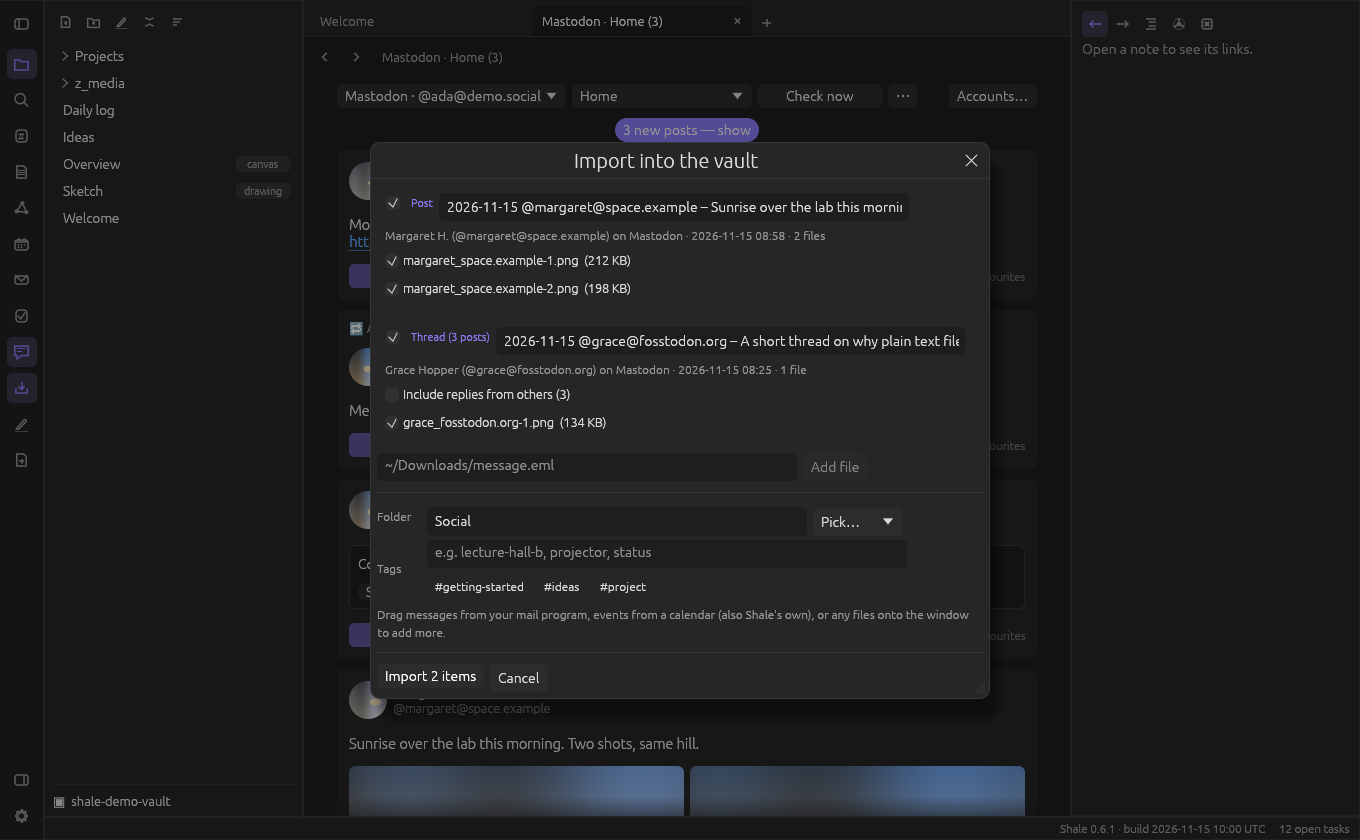
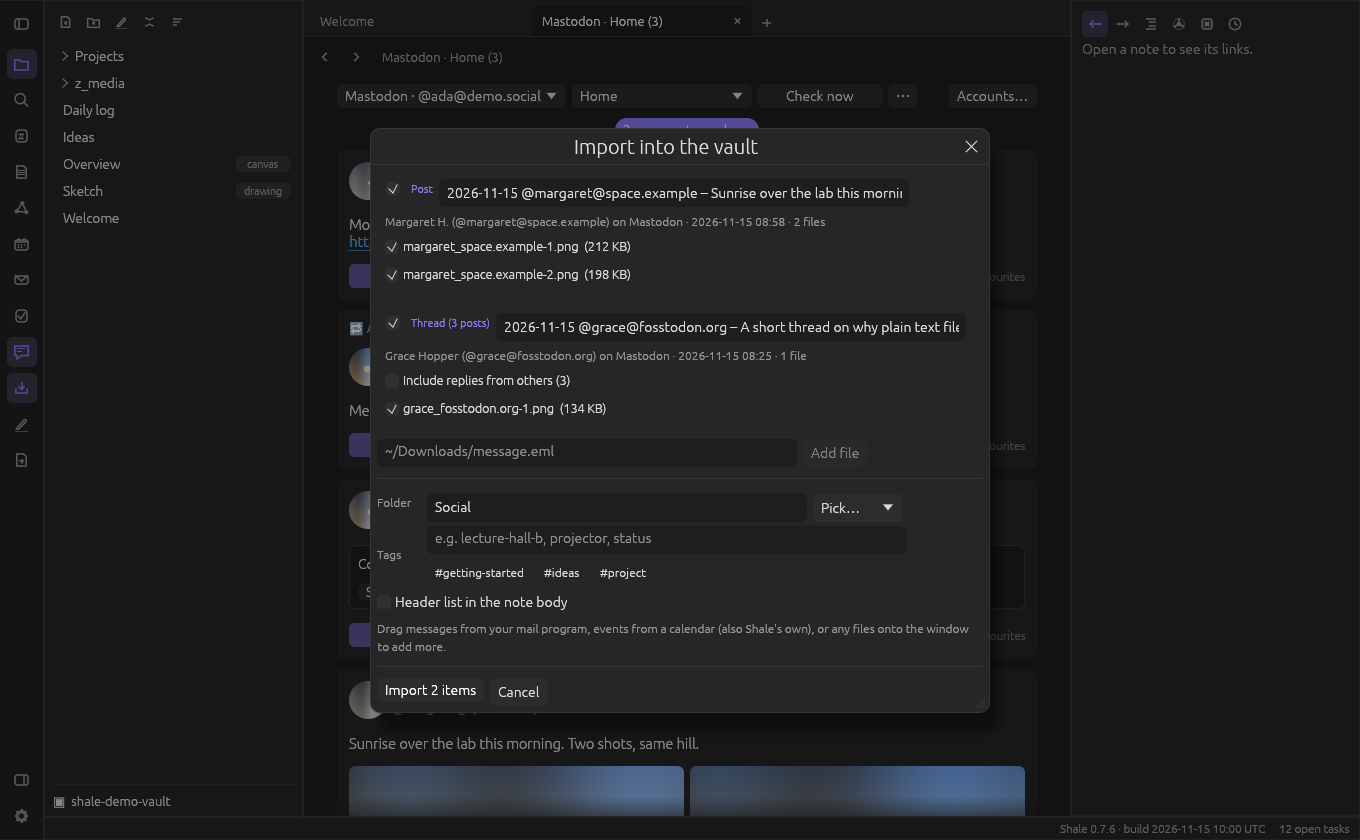
Hold the opened post still in the thread view and refresh the Feeds screenshots
The thread view now uses the view-still Anchor of the feed (SOC-028) for the opened post, so late-loading pictures or ancestors above it do not push it down until the user scrolls. New screenshot recipe social-thread (demo conversation) and regenerated social-feed and social-import; the demo source answers conversations for the demo thread and its replies.

Refs #560

diff --git a/src/social/thread_ui.rs b/src/social/thread_ui.rs
@@ -3,7 +3,7 @@
 //! with the same card as the feed (`feed_ui::post_card`). It is shown instead of the feed when the
 //! tab's `FeedRef` names a post; the tab's history makes Back return to the feed.
 
-use super::feed_ui::{column, column_width, inset, list_card, open_web, show_viewer, spinner_button, Ask, Cx, Look, TabCtx};
+use super::feed_ui::{column, column_width, inset, keep_still, list_card, open_web, show_viewer, spinner_button, Anchor, Ask, Cx, Look, TabCtx};
 use super::images::ImageCache;
 use super::state::{post_key, SocialState};
 use super::thread::ThreadStatus;
@@ -17,9 +17,6 @@ pub const INDENT: f32 = 18.0;
 pub const MAX_LEVELS: usize = 6;
 /// The narrowest card a deep reply is left with.
 const MIN_CARD: f32 = 220.0;
-/// How many frames the view is moved to the opened post when the conversation arrives (the
-/// posts above it settle their heights in the first frames).
-const SETTLE_FRAMES: u8 = 3;
 
 /// One card of the view.
 struct Item {
@@ -53,7 +50,7 @@ pub fn show(ui: &mut Ui, st: &mut SocialState, entry: &SocialAccountEntry, tab: 
     let snapshot = st.threads.map.get(&key).map(|t| {
         let view = if let ThreadStatus::Ready(v) = &t.status { Some(v.clone()) } else { None };
         let error = if let ThreadStatus::Failed(e) = &t.status { Some(e.clone()) } else { None };
-        (t.post.clone(), view, error, t.scrolled)
+        (t.post.clone(), view, error)
     });
     // ---- the bar above the conversation
     ui.add_space(8.0);
@@ -73,7 +70,7 @@ pub fn show(ui: &mut Ui, st: &mut SocialState, entry: &SocialAccountEntry, tab: 
         asks.push(Ask::Back);
     }
     ui.add_space(6.0);
-    let Some((root, view, error, scrolled)) = snapshot else {
+    let Some((root, view, error)) = snapshot else {
         column(ui, width, |ui| {
             ui.label(RichText::new("This conversation is not available any more. Go back and open it again.").color(theme::palette().muted));
         });
@@ -84,7 +81,11 @@ pub fn show(ui: &mut Ui, st: &mut SocialState, entry: &SocialAccountEntry, tab: 
     let mut open_thread: Option<(Post, bool)> = None;
     let mut retry = false;
     let mut post_rects: Vec<(String, Rect)> = vec![];
-    let mut root_rect = None;
+    // the opened post is held at the top of the view while posts above it change in height (a
+    // picture arrives, the ancestors come in); when the user scrolls, the anchor moves with the view
+    let mut anchor = st.threads.anchors.remove(&tab.id).filter(|a| a.scope == key).unwrap_or_else(|| Anchor { scope: key.clone(), key: post_key(&root), ..Default::default() });
+    let applied = anchor.apply.take();
+    let mut content_top = 0.0;
     let out = {
         let SocialState { images, revealed, saving, rects, viewer, threads, .. } = st;
         let Some(images) = images.as_ref() else { return asks };
@@ -93,7 +94,12 @@ pub fn show(ui: &mut Ui, st: &mut SocialState, entry: &SocialAccountEntry, tab: 
         if heights.len() > 50_000 {
             heights.clear();
         }
-        egui::ScrollArea::vertical().id_salt(("social-thread", tab.id, &aid, &id)).auto_shrink([false, false]).show(ui, |ui| {
+        let mut area = egui::ScrollArea::vertical().id_salt(("social-thread", tab.id, &aid, &id)).auto_shrink([false, false]);
+        if let Some(off) = applied {
+            area = area.vertical_scroll_offset(off);
+        }
+        area.show(ui, |ui| {
+            content_top = ui.cursor().min.y;
             column(ui, width, |ui| {
                 ui.spacing_mut().item_spacing.y = 10.0;
                 let (near_from, near_to) = (ui.clip_rect().min.y - super::feed_ui::FAR, ui.clip_rect().max.y + super::feed_ui::FAR);
@@ -108,11 +114,7 @@ pub fn show(ui: &mut Ui, st: &mut SocialState, entry: &SocialAccountEntry, tab: 
                         open_thread = Some((item.post.clone(), new_tab));
                     }
                     if item.highlight {
-                        root_rect = Some(card.rect);
                         cx.rects.push(("highlight".into(), card.rect));
-                        if view.is_some() && scrolled < SETTLE_FRAMES && i > 0 {
-                            ui.scroll_to_rect(card.rect, Some(egui::Align::TOP));
-                        }
                     }
                     post_rects.push((post_key(&item.post), card.rect));
                 }
@@ -151,9 +153,8 @@ pub fn show(ui: &mut Ui, st: &mut SocialState, entry: &SocialAccountEntry, tab: 
     };
     st.post_rects = post_rects;
     st.list_rect = out.inner_rect;
-    if let (Some(_), Some(t)) = (root_rect.filter(|_| view.is_some()), st.threads.map.get_mut(&key)) {
-        t.scrolled = t.scrolled.saturating_add(1);
-    }
+    keep_still(&ctx, &mut anchor, &st.post_rects, &out, content_top, applied);
+    st.threads.anchors.insert(tab.id, anchor);
     if retry {
         st.threads.retry(&aid, &id);
     }

diff --git a/src/social/feed_ui.rs b/src/social/feed_ui.rs
@@ -564,6 +564,36 @@ pub(super) fn list_card(ui: &mut Ui, cx: &mut Cx, heights: &mut HashMap<(String,
     out
 }
 
+/// Keep the view still (SOC-028): when the posts above the anchor's post changed in height, the
+/// scroll offset is put back so that it stays where it was; when the user scrolled, the anchor
+/// moves with the view. `content_top` is where the list's content started this frame, `applied`
+/// the offset that was set for this frame.
+pub(super) fn keep_still<R>(ctx: &egui::Context, anchor: &mut Anchor, post_rects: &[(String, Rect)], out: &egui::containers::scroll_area::ScrollAreaOutput<R>, content_top: f32, applied: Option<f32>) {
+    let top = out.inner_rect.min.y;
+    let offset_used = top - content_top;
+    // what the user scrolled during this frame (it applies to the next one)
+    let user = out.state.clamped_offset().y - offset_used;
+    if let Some((_, r)) = post_rects.iter().find(|(k, _)| *k == anchor.key) {
+        let dy_now = r.min.y - top;
+        if applied.is_none() && (dy_now - anchor.dy).abs() > 0.5 {
+            // posts above it changed in height: put the view back (in a second pass of this frame
+            // when egui allows it, else in the next frame)
+            anchor.apply = Some(offset_used + dy_now - anchor.dy);
+            ctx.request_discard("keeping the view still");
+            ctx.request_repaint();
+        }
+    }
+    if anchor.apply.is_none() {
+        match post_rects.iter().find(|(_, r)| r.max.y > top + 0.5) {
+            Some((k, r)) => {
+                anchor.key = k.clone();
+                anchor.dy = r.min.y - top - user;
+            }
+            None => anchor.key.clear(),
+        }
+    }
+}
+
 /// The picture viewer, when one is open over this tab (SOC-044).
 pub(super) fn show_viewer(ctx: &egui::Context, tab_rect: Rect, st: &mut SocialState, tab: &TabCtx) {
     if let (Some(v), Some(images)) = (st.viewer.as_mut().filter(|v| v.tab == tab.id), st.images.as_ref()) {
@@ -860,30 +890,7 @@ pub fn show(ui: &mut Ui, st: &mut SocialState, accounts: &[SocialAccountEntry], 
         // posts that arrived during the frame cannot exist (poll runs elsewhere); put the list back
         t.posts = posts;
     }
-    // ---- keep the view still
-    let top = out.inner_rect.min.y;
-    let offset_used = top - content_top;
-    // what the user scrolled during this frame (it applies to the next one)
-    let user = out.state.clamped_offset().y - offset_used;
-    if let Some((_, r)) = post_rects.iter().find(|(k, _)| *k == anchor.key) {
-        let dy_now = r.min.y - top;
-        if applied.is_none() && (dy_now - anchor.dy).abs() > 0.5 {
-            // posts above it changed in height: put the view back (in a second pass of this frame
-            // when egui allows it, else in the next frame)
-            anchor.apply = Some(offset_used + dy_now - anchor.dy);
-            ctx.request_discard("keeping the view still");
-            ctx.request_repaint();
-        }
-    }
-    if anchor.apply.is_none() {
-        match post_rects.iter().find(|(_, r)| r.max.y > top + 0.5) {
-            Some((k, r)) => {
-                anchor.key = k.clone();
-                anchor.dy = r.min.y - top - user;
-            }
-            None => anchor.key.clear(),
-        }
-    }
+    keep_still(&ctx, &mut anchor, &post_rects, &out, content_top, applied);
     st.anchors.insert(tab.id, anchor);
     st.post_rects = post_rects;
     st.list_rect = out.inner_rect;

diff --git a/src/social/thread_tests.rs b/src/social/thread_tests.rs
@@ -305,3 +305,39 @@ fn soc_047_replies_are_cards_like_the_feed_with_pictures_the_viewer_content_warn
     w.click("save:1");
     wait_for(&mut w, |w| matches!(w.app.modal, Some(crate::app::Modal::Import(_))));
 }
+
+// spec: SOC-046
+#[test]
+fn soc_046_the_opened_post_stays_put_when_the_height_of_a_post_above_it_changes_later_until_the_user_scrolls() {
+    let mut w = window("thread-still");
+    // the first post above it has a content warning: its height changes when it is opened (as a picture's does when it arrives)
+    let mut view = w.script.threads.lock().unwrap()["h0"][0].clone().unwrap();
+    view.ancestors[0].content_warning = Some("long".into());
+    view.ancestors[0].text_markdown = "a long text. ".repeat(80);
+    let up1 = post_key(&view.ancestors[0]);
+    w.script.threads.lock().unwrap().insert("h0".into(), vec![Ok(view)]);
+    w.click("replies:0");
+    wait_for(&mut w, ready);
+    w.frames(6);
+    let y0 = rect_of(&w, "h0").min.y;
+    assert!((y0 - w.app.social.list_rect.min.y).abs() < 8.0, "the opened post is at the top");
+    for open in [true, false, true] {
+        if open {
+            w.app.social.revealed.insert(up1.clone());
+        } else {
+            w.app.social.revealed.clear();
+        }
+        for i in 0..5 {
+            w.frames(1);
+            assert!((rect_of(&w, "h0").min.y - y0).abs() < 1.0, "open={open} frame {i}: {} vs {y0}", rect_of(&w, "h0").min.y);
+        }
+    }
+    // once the user scrolls, the view holds the post at the top of the window instead
+    w.scroll(300.0);
+    let top = w.app.social.post_rects.iter().find(|(_, r)| r.max.y > w.app.social.list_rect.min.y + 1.0).unwrap().clone();
+    assert!(rect_of(&w, "h0").min.y < y0 - 100.0);
+    w.app.social.revealed.clear();
+    w.frames(5);
+    let again = w.app.social.post_rects.iter().find(|(k, _)| *k == top.0).unwrap().1;
+    assert!((again.min.y - top.1.min.y).abs() < 1.0, "{} vs {}", again.min.y, top.1.min.y);
+}

diff --git a/src/social/demo.rs b/src/social/demo.rs
@@ -148,16 +148,22 @@ impl super::state::Source for DemoSource {
         posts().into_iter().chain(thread()).chain(new_posts()).find(|p| p.id == id).ok_or_else(|| "no such post".to_string())
     }
     fn thread(&self, post: &Post) -> Result<ThreadView, String> {
-        let all = thread();
-        match all.iter().position(|p| p.id == post.id) {
-            // the posts of the demo thread, and the replies of other people to it
-            Some(at) => {
-                let mut below: Vec<Post> = all[at + 1..].to_vec();
-                below.extend(replies().into_iter().map(|r| r.post));
-                Ok(super::thread_view_of(post, all[..at].to_vec(), &below))
-            }
-            None => Ok(super::thread_view_of(post, vec![], &[])),
+        // the demo thread and the replies to it are one conversation
+        let everything: Vec<Post> = thread().into_iter().chain(replies().into_iter().map(|r| r.post)).collect();
+        let mut ancestors = vec![];
+        let mut up = post.reply_to.clone();
+        while let Some(p) = up.and_then(|id| everything.iter().find(|p| p.id == id)) {
+            ancestors.push(p.clone());
+            up = p.reply_to.clone();
         }
+        ancestors.reverse();
+        let mut below: Vec<Post> = vec![];
+        let mut ids = vec![post.id.clone()];
+        while let Some(next) = everything.iter().find(|p| p.reply_to.as_ref().is_some_and(|r| ids.contains(r)) && !ids.contains(&p.id)) {
+            ids.push(next.id.clone());
+            below.push(next.clone());
+        }
+        Ok(super::thread_view_of(post, ancestors, &below))
     }
     fn newer(&self, _feed: &Feed, since: &Since) -> Result<Fresh, String> {
         Ok(Fresh { posts: new_posts().into_iter().filter(|p| !since.known.contains(&super::state::post_key(p))).collect(), ..Default::default() })

diff --git a/src/app.rs b/src/app.rs
@@ -768,12 +768,18 @@ impl ShaleApp {
                     app.open_data_usage();
                 }
                 Some("graph") => app.show_view(View::Graph, false),
-                // the feed view with made-up posts (no network); "social-import": and the dialog for saving some of them
-                Some(v @ ("social" | "social-import")) => {
+                // the feed view with made-up posts (no network); "social-import": and the dialog for saving some of them; "social-thread": the conversation of a post
+                Some(v @ ("social" | "social-import" | "social-thread")) => {
                     let demo = crate::social::demo::account();
                     app.cfg.social_accounts = vec![demo.clone()];
                     app.social.load_demo(&demo);
                     app.show_view(View::Social(None), false);
+                    if v == "social-thread" {
+                        // the conversation of the first reply to the demo thread (SOC-045)
+                        let post = crate::social::demo::replies().remove(0).post;
+                        app.social.threads.open(&demo.account.id, &post);
+                        app.show_view(View::Social(Some(crate::social::FeedRef { thread: Some(post.id), ..crate::social::FeedRef::new(demo.account.id.clone(), "home") })), false);
+                    }
                     if v == "social-import" {
                         let posts = crate::social::demo::posts();
                         let items = [3, 4].iter().map(|i| crate::import::social_item(crate::social::demo::saved(&posts[*i]), "Mastodon", false)).collect();

diff --git a/src/social/thread.rs b/src/social/thread.rs
@@ -18,9 +18,6 @@ pub struct ThreadEntry {
     /// the post that was opened, as the feed showed it (drawn while the rest comes)
     pub post: Post,
     pub status: ThreadStatus,
-    /// how many frames the view was moved to the opened post since the conversation arrived (the
-    /// ancestors above it push it down)
-    pub scrolled: u8,
 }
 
 /// The conversations opened in this run, by (account, post id). A step back and forth in a tab's
@@ -31,6 +28,9 @@ pub struct Threads {
     /// how high each post was drawn at a width (as `SocialState::card_heights`; separate because
     /// the opened post is drawn with a frame)
     pub heights: HashMap<(String, u32), (f32, bool)>,
+    /// where each tab's conversation is held still while posts above the opened post change in
+    /// height (SOC-046); a new conversation starts with the opened post at the top
+    pub anchors: HashMap<u64, super::feed_ui::Anchor>,
 }
 
 impl Threads {
@@ -40,7 +40,9 @@ impl Threads {
         if matches!(self.map.get(&key), Some(ThreadEntry { status: ThreadStatus::Loading | ThreadStatus::Wanted, .. })) {
             return;
         }
-        self.map.insert(key, ThreadEntry { post: Post { reposted_by: None, ..post.clone() }, status: ThreadStatus::Wanted, scrolled: 0 });
+        // a conversation opened again starts with the opened post at the top
+        self.anchors.retain(|_, a| a.scope != key);
+        self.map.insert(key, ThreadEntry { post: Post { reposted_by: None, ..post.clone() }, status: ThreadStatus::Wanted });
     }
 
     /// Ask again after an error.

diff --git a/src/script.rs b/src/script.rs
@@ -391,7 +391,7 @@ mod tests {
                 assert!(crate::parse_size(size).is_some(), "[{}] size {size}", r.name);
             }
             if let Some(view) = k("view") {
-                let known = ["tasks", "graph", "drawing", "reading", "calendar", "calendar-side", "mail", "keybindings", "data-usage", "social", "social-import", "search"];
+                let known = ["tasks", "graph", "drawing", "reading", "calendar", "calendar-side", "mail", "keybindings", "data-usage", "social", "social-import", "social-thread", "search"];
                 assert!(known.contains(&view) || ["open:", "read-only:", "convert:"].iter().any(|p| view.starts_with(p)), "[{}] view {view}", r.name);
             }
             if let Some(v) = k("vault") {

diff --git a/docs/spec/social.md b/docs/spec/social.md
@@ -28,7 +28,7 @@ small pretend servers driven through real `curl`; it has not been tried against 
 | SOC-013 | Pictures (avatars, previews) are fetched by 4 background workers into `~/.cache/shale/social/<hash>.<ext>`, once per address, without any login, and shown from the file; the window never waits for them. | IS NOW | `social/images.rs` | `images.rs::local_files_are_used_as_they_are_and_names_are_stable` |
 | SOC-044 | A click on a picture of a post opens it in a viewer over the Feeds tab (the tab's area, not the sidebar): the full size picture (`Media::url`, through the picture cache, SOC-013) fitted to the window, with a bar of Previous / Next, "N / M", zoom out / in, "100%" / "Fit" and Close, and below it the picture's description (alt text, scrolls when long; no line when there is none). A post with several pictures is stepped through with the buttons and the Left / Right keys (not past the ends; each picture starts fitted); `+` / `-` and the mouse wheel zoom, `0` toggles 100% and Fit, dragging pans a zoomed picture; Esc or Close closes it. While the file is on its way a spinner shows, when it cannot be fetched or read a message says so; the window never waits. Pictures behind a content warning (SOC-006) cannot be clicked until Show. A video or GIF preview is not opened here: it still opens at its web address (the media player plays files of the vault, not the posts' remote videos); "Open in browser" in the bar opens the picture's web address. | IS NOW | `social/viewer.rs`, `social/feed_ui.rs` (`thumb`), `social/state.rs` (`viewer`) | `feed_ui.rs::soc_044_a_click_opens_the_picture_big_and_the_pictures_of_the_post_can_be_stepped_through_and_closed`, `feed_ui.rs::soc_044_a_picture_on_its_way_shows_a_spinner_and_one_that_fails_an_error`, `feed_ui.rs::soc_044_pictures_behind_a_content_warning_cannot_be_opened_and_videos_do_not_open_the_viewer` |
 | SOC-045 | A click on the reply count of a post ("N replies") or on its **Show thread** button (offered for a post that has replies or replies to a post) opens its conversation in the same Feeds tab as a step in the tab's history (SOC-021): the tab's `FeedRef` then names the post (`thread`, in memory only: a saved tab holds the feed), and the tab is titled "<network> · Conversation". Shift+click and middle click open it in a new Feeds tab; the old tab stays on the feed. In the conversation the counts and buttons of the other posts open their conversation too, each one another step. The conversation is fetched again each time it is opened this way; Back and Forward show what was fetched. | IS NOW | `social/feed_ui.rs` (`post_card`, `Ask::Thread`), `app/social.rs` (`open_thread`), `social/mod.rs` (`FeedRef::thread`) | `thread_tests.rs::soc_045_the_reply_count_opens_the_conversation_with_the_posts_above_the_tree_below_and_the_opened_post_highlighted`, `thread_tests.rs::soc_045_the_show_thread_button_opens_it_too_and_shift_or_middle_click_open_it_in_a_new_tab`, `mod.rs::a_feed_ref_names_a_conversation_only_in_memory` |
-| SOC-046 | The conversation view shows the posts the opened post replies to (all authors, from the top of the conversation down), the opened post highlighted (its own fill and an accent frame; it has no reply count to click), and everything below it as a tree: depth first, oldest first among siblings (as `conversation`, SOC-019, but the author's own replies are in the tree too). Replies are moved in by 18 points for each level, up to 6 levels; deeper ones stay at the last indent (and a card is never narrower than 220 points). When the data arrives the view is moved so that the opened post is at the top. When the server's answer left replies out (a post counts more replies than the tree below it holds, or at most 300 replies are shown) a note says so with **Open in browser**; a post without replies says "No replies yet." | IS NOW | `social/thread_ui.rs`, `social/mod.rs` (`thread_view_of`), `social/mastodon.rs` (`thread_view`), `social/bluesky.rs` (`thread_view`) | `thread_tests.rs::soc_045_the_reply_count_opens_the_conversation_with_the_posts_above_the_tree_below_and_the_opened_post_highlighted`, `thread_tests.rs::soc_046_replies_the_server_left_out_say_so_with_open_in_browser`, `mod.rs::a_thread_view_is_the_tree_below_the_post_and_notices_replies_that_are_missing`, `mastodon.rs::the_conversation_of_a_post_from_a_context_fixture`, `mastodon.rs::the_conversation_of_a_post_is_asked_from_the_servers_context`, `bluesky.rs::the_conversation_of_a_post_from_a_thread_fixture`, `bluesky.rs::the_conversation_of_a_post_is_asked_with_get_post_thread` |
+| SOC-046 | The conversation view shows the posts the opened post replies to (all authors, from the top of the conversation down), the opened post highlighted (its own fill and an accent frame; it has no reply count to click), and everything below it as a tree: depth first, oldest first among siblings (as `conversation`, SOC-019, but the author's own replies are in the tree too). Replies are moved in by 18 points for each level, up to 6 levels; deeper ones stay at the last indent (and a card is never narrower than 220 points). The opened post is held at the top of the view with the `Anchor` of SOC-028 while posts above it change in height (the ancestors come in, a picture arrives) until the user scrolls; then the post at the top of the window is held instead. When the server's answer left replies out (a post counts more replies than the tree below it holds, or at most 300 replies are shown) a note says so with **Open in browser**; a post without replies says "No replies yet." | IS NOW | `social/thread_ui.rs`, `social/mod.rs` (`thread_view_of`), `social/mastodon.rs` (`thread_view`), `social/bluesky.rs` (`thread_view`) | `thread_tests.rs::soc_045_the_reply_count_opens_the_conversation_with_the_posts_above_the_tree_below_and_the_opened_post_highlighted`, `thread_tests.rs::soc_046_replies_the_server_left_out_say_so_with_open_in_browser`, `thread_tests.rs::soc_046_the_opened_post_stays_put_when_the_height_of_a_post_above_it_changes_later_until_the_user_scrolls`, `mod.rs::a_thread_view_is_the_tree_below_the_post_and_notices_replies_that_are_missing`, `mastodon.rs::the_conversation_of_a_post_from_a_context_fixture`, `mastodon.rs::the_conversation_of_a_post_is_asked_from_the_servers_context`, `bluesky.rs::the_conversation_of_a_post_from_a_thread_fixture`, `bluesky.rs::the_conversation_of_a_post_is_asked_with_get_post_thread` |
 | SOC-047 | The conversation is fetched in a background job (`jobs::run`, SOC-010; Mastodon: the status context, Bluesky: `getPostThread` with depth 10 and parent height 80, the requests of SOC-019): until it arrives the opened post is shown with a spinner ("Loading the conversation…"), the window never waits; a failure shows the message with **Retry**, which asks again. The posts are the cards of the feed (`feed_ui::post_card`, also for the far-from-view rule of PERF-006): pictures with the viewer (SOC-044), links, content warnings, Save to vault, Open in browser, Copy link. A **← Back** button in the bar goes one step back in the tab's history. | IS NOW | `social/thread_ui.rs`, `social/thread.rs`, `social/state.rs` (`fetch_thread`) | `thread_tests.rs::soc_047_the_conversation_is_fetched_in_the_background_with_a_spinner_and_the_window_never_waits`, `thread_tests.rs::soc_047_a_failed_request_shows_the_error_and_retry_asks_again`, `thread_tests.rs::soc_047_replies_are_cards_like_the_feed_with_pictures_the_viewer_content_warnings_and_save` |
 | SOC-048 | Back from a conversation returns to the feed at the scroll position it was left at, Forward to the conversation (a step in the tab history like choosing another feed, SOC-021); opening another post's conversation from a conversation is one more step, and Back goes through them in turn. Conversations are never saved with the tabs (a restart brings back the feed). | IS NOW | `app/social.rs`, `app.rs` (`go_back`), `social/thread_ui.rs` | `thread_tests.rs::soc_048_back_returns_to_the_feed_at_the_same_scroll_position_and_forward_to_the_conversation`, `thread_tests.rs::soc_048_a_click_on_another_post_of_the_conversation_opens_that_one_as_another_step` |
 | SOC-049 | The posts of a conversation (above, the opened post, below) are put into the post index when the fetch ends, in the feed of the tab it was opened from, like the posts of a save (SOC-037) and with the context of their parent (SOC-038). | IS NOW | `social/state.rs` (`poll`), `social/thread.rs` (`arrived`) | `thread_tests.rs::soc_049_the_posts_of_the_conversation_are_put_into_the_index` |

diff --git a/docs/FEATURES.md b/docs/FEATURES.md
@@ -1004,6 +1004,9 @@ key or a passphrase, never looks a key up on the network by itself, and tells yo
   the viewer, links, content warnings, Save to vault, Open in browser and Copy link. **← Back** (or
   the tab's Back) returns to the feed at the same place; another post's reply count opens that
   conversation as the next step. Replies the server leaves out are noted, with Open in browser.
+
+![The conversation of a post](userguide/z_media/screenshots/social-thread.png)
+
 - **Pictures open big in a viewer** over the tab (click one): fitted to the window, its description
   (alt text) below, **◀ ▶** or Left / Right to step through the post's pictures, mouse wheel or
   `+` `-` to zoom, **100%** / **Fit** (`0`), drag to pan, Esc or **Close** to leave. The full size file

diff --git a/docs/userguide/Feeds.md b/docs/userguide/Feeds.md
@@ -47,6 +47,8 @@ social` shows made-up posts.
   each open feed looks for newer posts and offers "12 new posts, show" (or press `.`). The list
   never moves until you click. **Check now** looks right away.
 
+![[social-thread.png]]
+
 # Search the posts you loaded
 
 Every post a feed brings in is kept in a local search index. The sidebar search (Ctrl+Shift+F)
